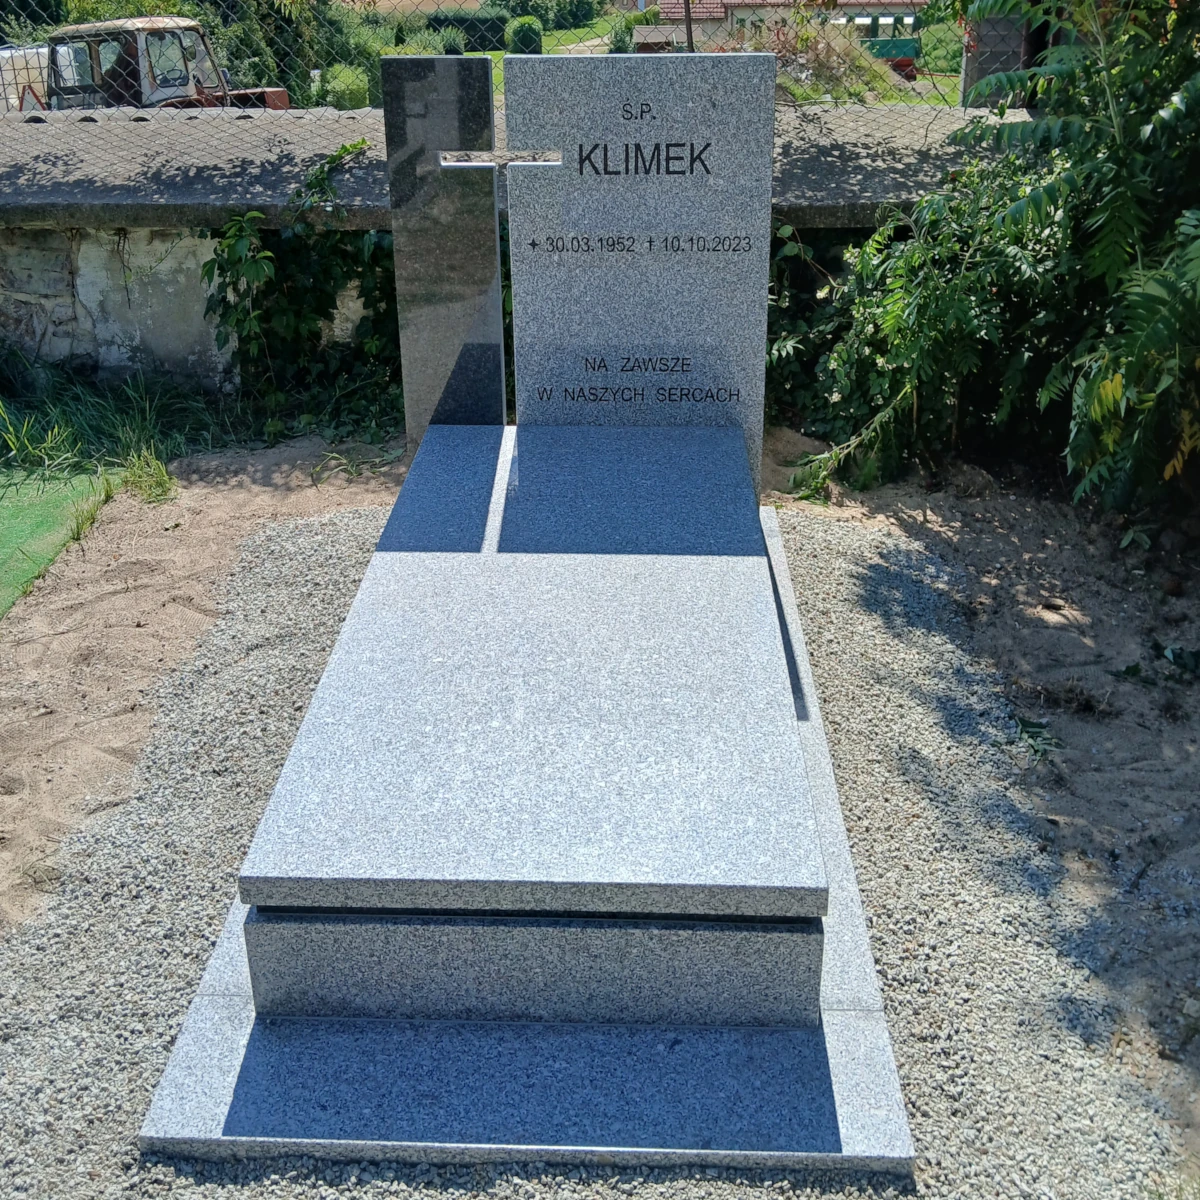
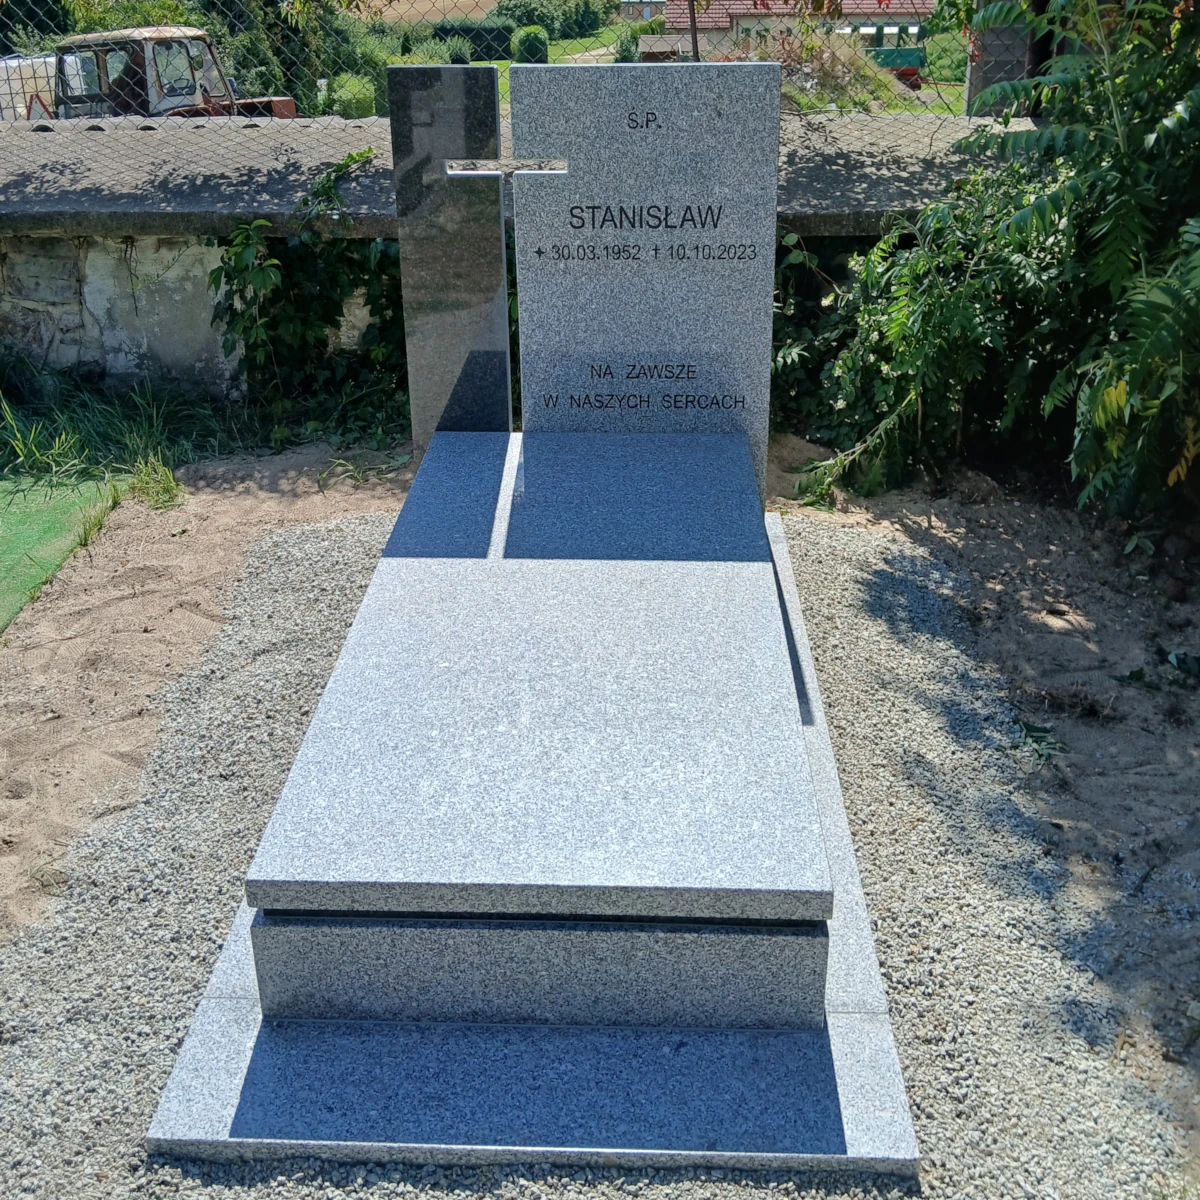
Changes to be committed: 	modified:   galery.html 	modified:   img/offer/pojedynczy/pojedynczy_4.webp 	modified:   img/offer/pojedynczy/pojedynczy_4_medium.webp 	modified:   index.html

diff --git a/index.html b/index.html
@@ -78,14 +78,14 @@
                 </div>
                 <div class="offer__cards-gravestones">
                     <div class="offer__card">
-                        <img src="./img/offer/pojedynczy/pojedynczy_30_small.webp" alt="" class="offer__card-img">
+                        <img src="./img/offer/pojedynczy/pojedynczy_30.webp" alt="" class="offer__card-img">
                         <p class="offer__card-title">Nagrobki pojedyncze</p>
                         <a href="galery.html?data-filter=pojedyncze#gallery" class="offer__card-link">Zobacz
                             więcej</a>
                     </div>
 
                     <div class="offer__card">
-                        <img src="./img/offer/dzieciecy/dzieciecy_1_small.webp" alt="" class="offer__card-img">
+                        <img src="./img/offer/dzieciecy/dzieciecy_1.webp" alt="" class="offer__card-img">
                         <p class="offer__card-title">Nagrobki dzieciece</p>
                         <a href="galery.html?data-filter=dzieciece#gallery" class="offer__card-link">Zobacz
                             więcej</a>

diff --git a/galery.html b/galery.html
@@ -65,9 +65,9 @@
                 <!-- <li><button data-filter="urnowe">Nagrobki urnowe</button></li> -->
                 <li><button data-filter="dzieciece">Nagrobki dziecięce</button></li>
                 <!-- <li><button data-filter="wazony">Wazony</button></li>
-                <li><button data-filter="misy">Misy</button></li>
+                <li><button data-filter="misy">Misy</button></li>-->
                 <li><button data-filter="ksiazki">Książki</button></li>
-                <li><button data-filter="tabliczki">Tabliczki</button></li>
+                <!-- <li><button data-filter="tabliczki">Tabliczki</button></li>
                 <li><button data-filter="litery">Litery</button></li>
                 <li><button data-filter="krzyze">Krzyże</button></li>
                 <li><button data-filter="lampiony">Lampiony</button></li> -->
